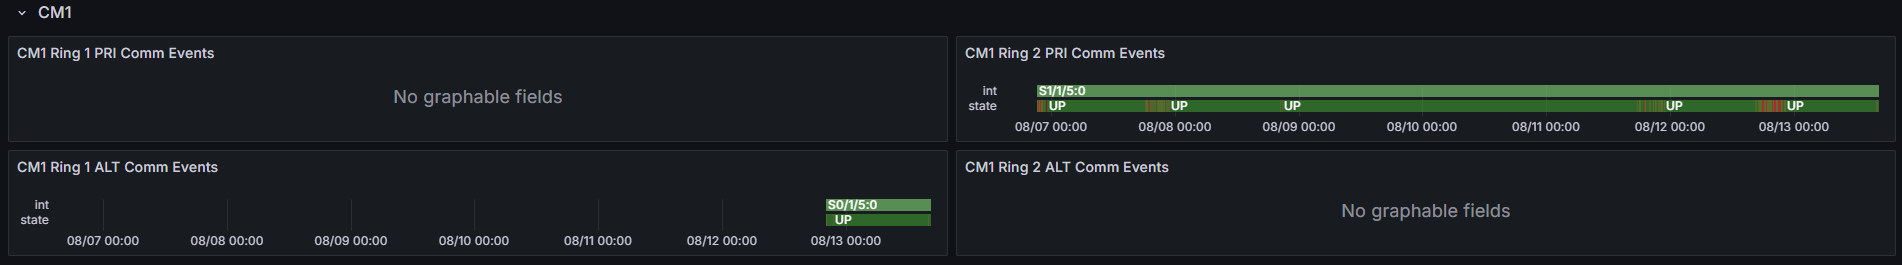
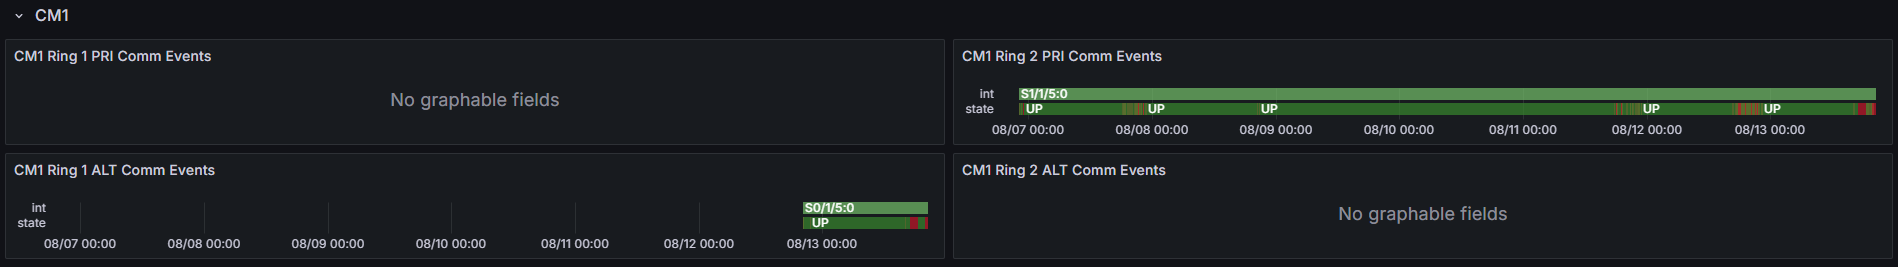
updated CM1 comm notes

diff --git a/sysmon/index.html b/sysmon/index.html
@@ -193,6 +193,15 @@
                                                                         <strong>last event cleared at 8/12 22:26 (~3102
                                                                               seconds total)</strong>
                                                                   </li>
+                                                                  <li>8/13 15:59 - CM1 Ring 1 ALT / Ring 2 PRI comms
+                                                                        down hard; <strong>both lines cleared at 16:05
+                                                                              (~340 seconds)</strong></li>
+                                                                  <li>8/13 17:02 - CM1 Ring 1 ALT / Ring 2 PRI comms
+                                                                        down hard; <strong>both lines cleared at 18:26
+                                                                              (~5037 seconds)</strong></li>
+                                                                  <li>8/13 18:36 - CM1 Ring 2 PRI comms flapping until
+                                                                        CM1 Ring 1 ALT / Ring 2 PRI comms down hard...
+                                                                  </li>
                                                             </ul>
 
 
